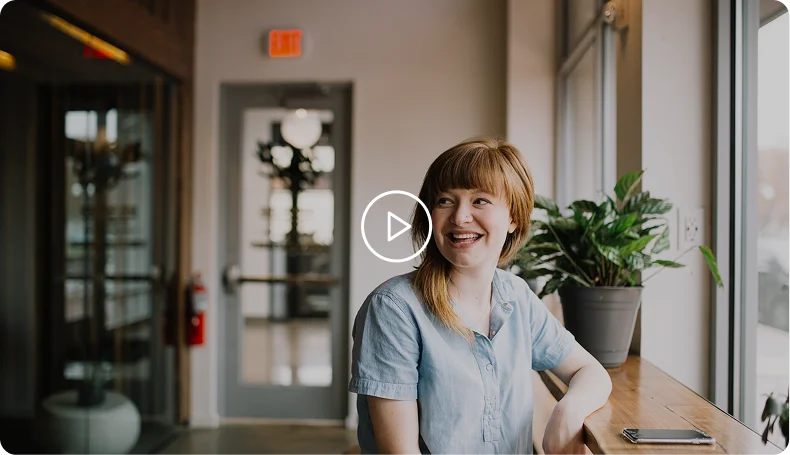
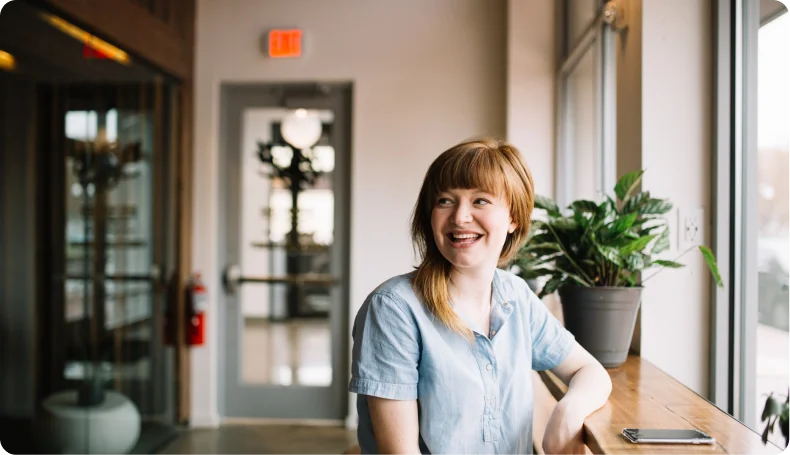
success section fixed

diff --git a/styles/success.css b/styles/success.css
@@ -1,0 +1,108 @@
+.success {
+    background-color: var(--co-dark-green);
+}
+
+.success__wrapper {
+    padding: 220px 0;
+    display: flex;
+    justify-content: space-between;
+    align-items: start;
+    flex-wrap: wrap-reverse;
+    gap: 40px;
+}
+
+.success__content {
+    margin: 50px 0 0 0;
+    max-width: 550px;
+    display: flex;
+    flex-direction: column;
+    /* justify-content: start;
+    align-items: start; */
+    place-items: start;
+    gap: 20px;
+}
+
+.success__title {
+    color: var(--co-white);
+    font-size: 50px;
+    font-weight: 700;
+}
+
+.success__description {
+    color: var(--co-white);
+    font-size: 25px;
+    font-weight: 600;
+}
+
+.success__content .btn {
+    margin: 50px 0 0 0;
+    width: 240px;
+    height: 65px;
+}
+
+.success__content .btn:hover {
+    outline: 2px solid var(--co-white);
+}
+
+.success__content-video {
+    max-width: 790px;
+    height: 455px;
+    position: relative;
+    border-radius: 16px;
+    overflow: hidden;
+}
+
+.success__cover {
+    width: 100%;
+    height: 100%;
+    object-fit: cover;
+    aspect-ratio: 158/91;
+}
+
+.success__play-icon {
+    position: absolute;
+    z-index: 2;
+    width: 72px;
+    height: 73px;
+    fill: var(--co-white);
+    top: 50%;
+    left: 50%;
+    translate: -50% -50%;
+}
+
+.success__play-icon:hover {
+    fill: var(--co-green);
+    cursor: pointer;
+}
+
+.success__gradient {
+    position: absolute;
+    z-index: 1;
+    inset: 0;
+    background: linear-gradient(180deg, rgba(0,0,0, .1), rgba(0,0,0, .5)) center/cover no-repeat; 
+}
+
+@media (max-width: 1370px) {
+    .success__wrapper {
+        padding: 220px 0;
+        display: flex;
+        justify-content: center;
+    }
+    .success__content {
+        text-align: center;
+        place-items: center start;
+    }
+}
+
+@media (max-width: 576px) {
+    .success__wrapper {
+        padding: 150px 0;
+    }
+    .success__title {
+        font-size: 32px;
+}
+
+.success__description {
+    font-size: 20px;
+    }
+}

diff --git a/index.html b/index.html
@@ -92,6 +92,26 @@
                 </div>
             </div>
         </section>
+
+        <section class="success" aria-label="success section">
+            <div class="container">
+                <div class="success__wrapper">
+                    <div class="success__content">
+                        <h3 class="success__title">Let's hear about Kayla's success story</h3>
+                        <p class="success__description">See how well Alivio works in a real customer's life.</p>
+                        <button class="btn">Let's get started</button>
+                    </div>
+                    
+                    <div class="success__content-video">
+                        <img src="assets/webp/video_cover.webp" class="success__cover" alt="video cover img">
+                        <svg class="success__play-icon" aria-label="play icon">
+                            <use href="assets/sprites.svg#play-icon"></use>
+                        </svg>
+                        <div class="success__gradient"></div>
+                    </div>
+                </div>
+            </div>
+        </section>
     </main>
 </body>
 

diff --git a/index.css b/index.css
@@ -4,3 +4,4 @@
 @import url('styles/hero.css');
 @import url('styles/about.css');
 @import url('styles/card.css');
+@import url('styles/success.css');